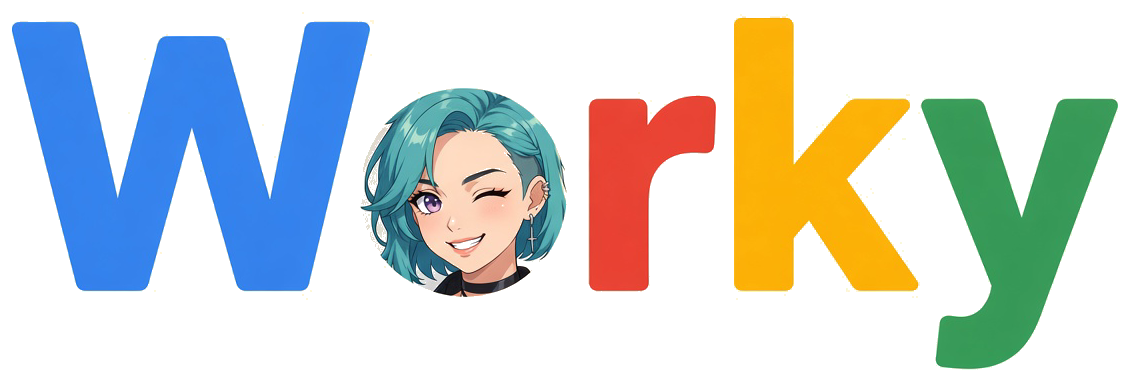
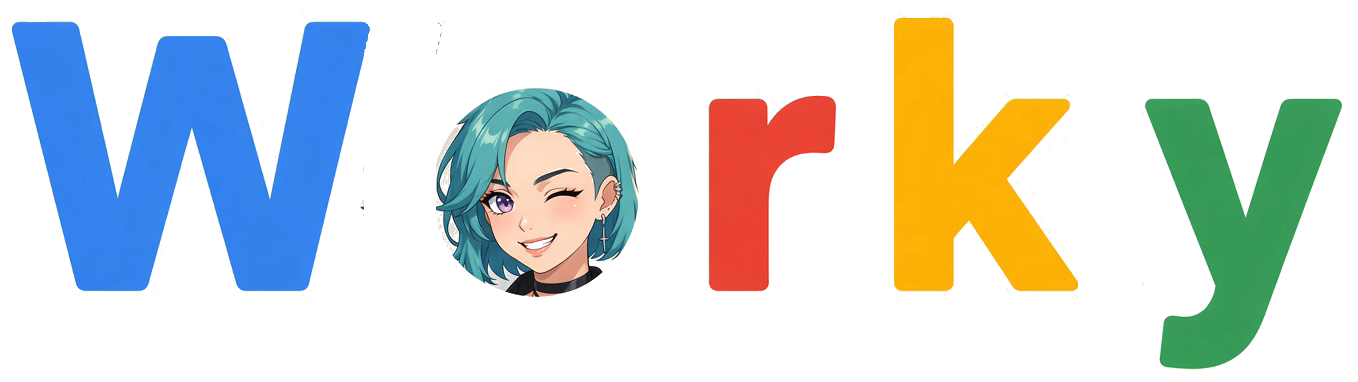
Give the Home wordmark space between the letters and the flag.

diff --git a/app/lib/src/browse_screen.dart b/app/lib/src/browse_screen.dart
@@ -184,10 +184,7 @@ class _BrowseScreenState extends State<BrowseScreen> {
         session.rememberFeed(key, page, lat: lat, lng: lng);
       }
       final rows = widget.picking
-          ? [
-              for (final row in page.categories)
-                row.copyWith(posts: const []),
-            ]
+          ? [for (final row in page.categories) row.copyWith(posts: const [])]
           : session.visible(key, lat, lng);
       setState(() {
         _rows = rows;
@@ -272,14 +269,17 @@ class _BrowseScreenState extends State<BrowseScreen> {
                       ),
                     ),
                     if (session.lat != null && session.country != null)
-                      Semantics(
-                        label: session.countryName ?? session.country!,
-                        child: DecoratedBox(
-                          decoration: BoxDecoration(
-                            shape: BoxShape.circle,
-                            border: Border.all(color: Colors.black12),
+                      Padding(
+                        padding: const EdgeInsets.only(left: 8),
+                        child: Semantics(
+                          label: session.countryName ?? session.country!,
+                          child: DecoratedBox(
+                            decoration: BoxDecoration(
+                              shape: BoxShape.circle,
+                              border: Border.all(color: Colors.black12),
+                            ),
+                            child: CircleFlag(session.country!, size: 16),
                           ),
-                          child: CircleFlag(session.country!, size: 16),
                         ),
                       ),
                     const Spacer(),

diff --git a/app/test/widget_test.dart b/app/test/widget_test.dart
@@ -1,5 +1,8 @@
+import 'dart:ui' as ui;
+
 import 'package:circle_flags/circle_flags.dart';
 import 'package:flutter/material.dart';
+import 'package:flutter/services.dart';
 import 'package:flutter_test/flutter_test.dart';
 import 'package:worky/src/browse_screen.dart';
 import 'package:worky/src/chrome.dart';
@@ -10,6 +13,37 @@ void main() {
   test('whatsapp numbers use a real mobile check', () {
     expect(validPhone('+919876543210'), isTrue);
     expect(validPhone('+91910000101'), isFalse);
+  });
+
+  test('the wordmark keeps space between each letter', () async {
+    TestWidgetsFlutterBinding.ensureInitialized();
+    final data = await rootBundle.load('assets/worky.png');
+    final codec = await ui.instantiateImageCodec(data.buffer.asUint8List());
+    final frame = await codec.getNextFrame();
+    final image = frame.image;
+    final bytes = (await image.toByteData())!;
+    final gaps = <int>[];
+    var empty = 0;
+    var seenInk = false;
+    for (var x = 0; x < image.width; x++) {
+      var ink = false;
+      for (var y = 0; y < image.height; y += 2) {
+        final i = (y * image.width + x) * 4;
+        if (bytes.getUint8(i + 3) > 20) {
+          ink = true;
+          break;
+        }
+      }
+      if (ink) {
+        if (seenInk && empty > 8) gaps.add(empty);
+        seenInk = true;
+        empty = 0;
+      } else {
+        empty++;
+      }
+    }
+    expect(gaps.length, greaterThanOrEqualTo(4));
+    expect(gaps.reduce((a, b) => a < b ? a : b), greaterThanOrEqualTo(40));
   });
 
   test('a saved India number can be confirmed, and does not skip setup', () {
